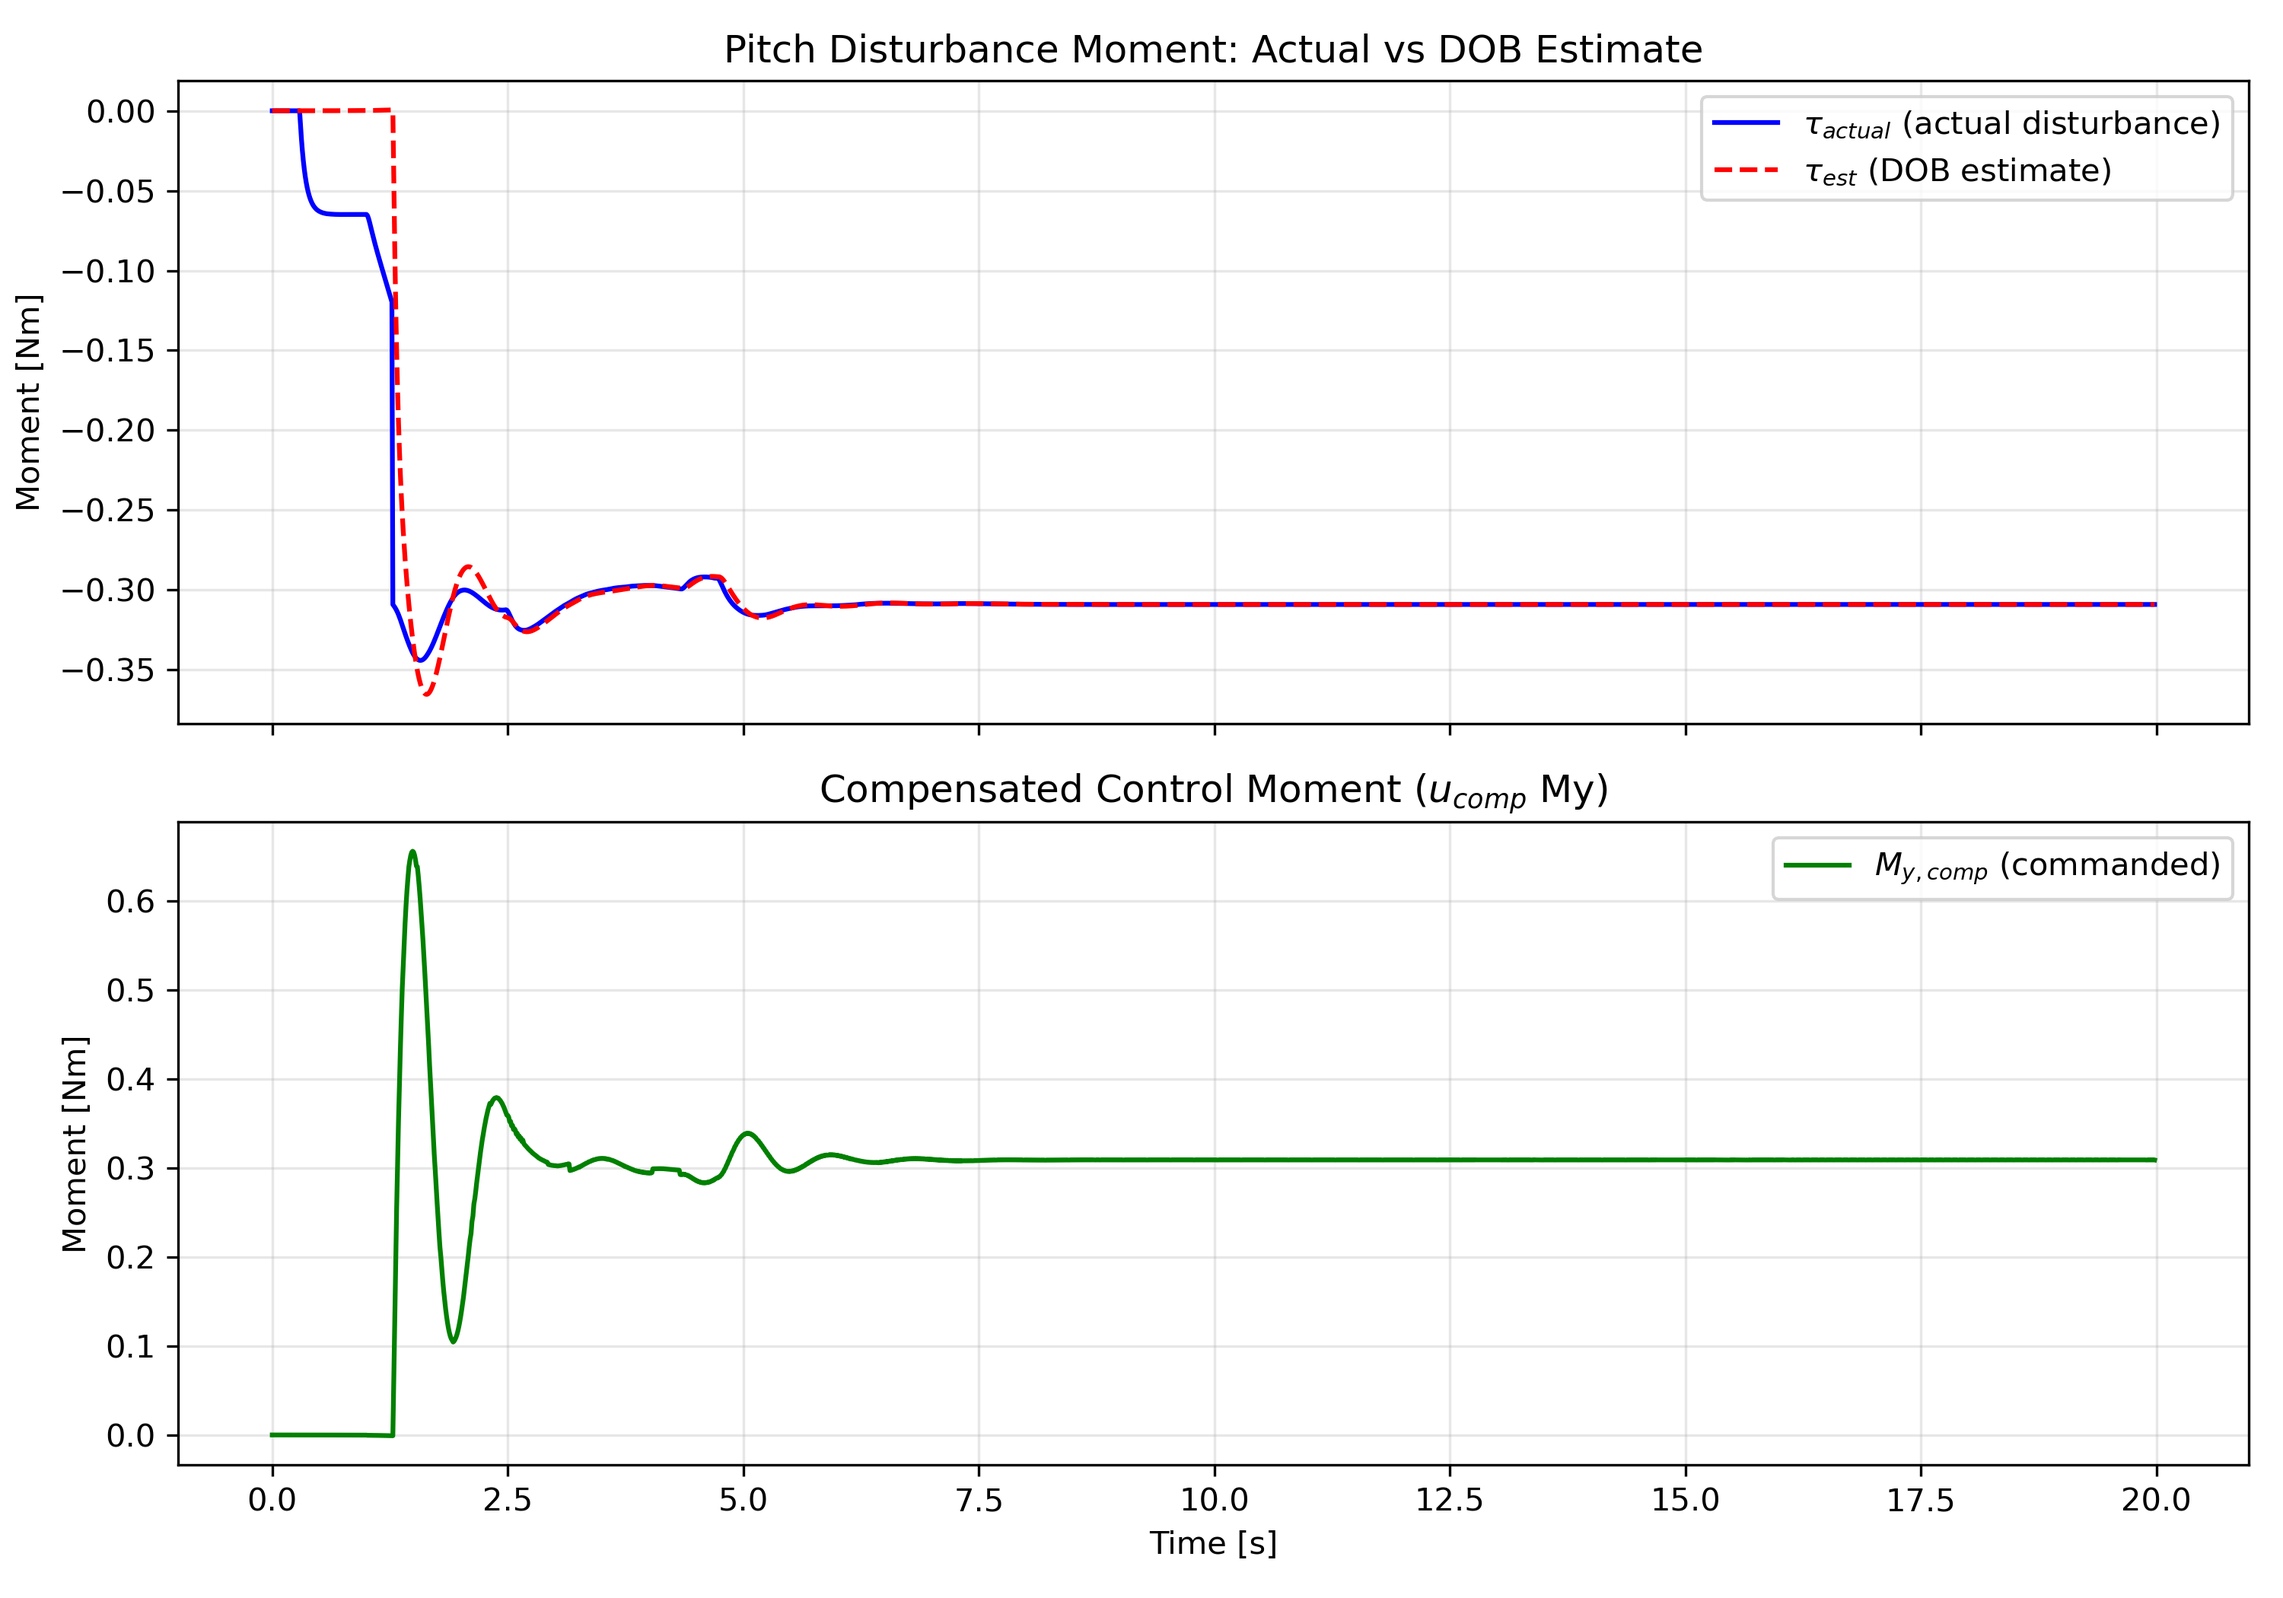
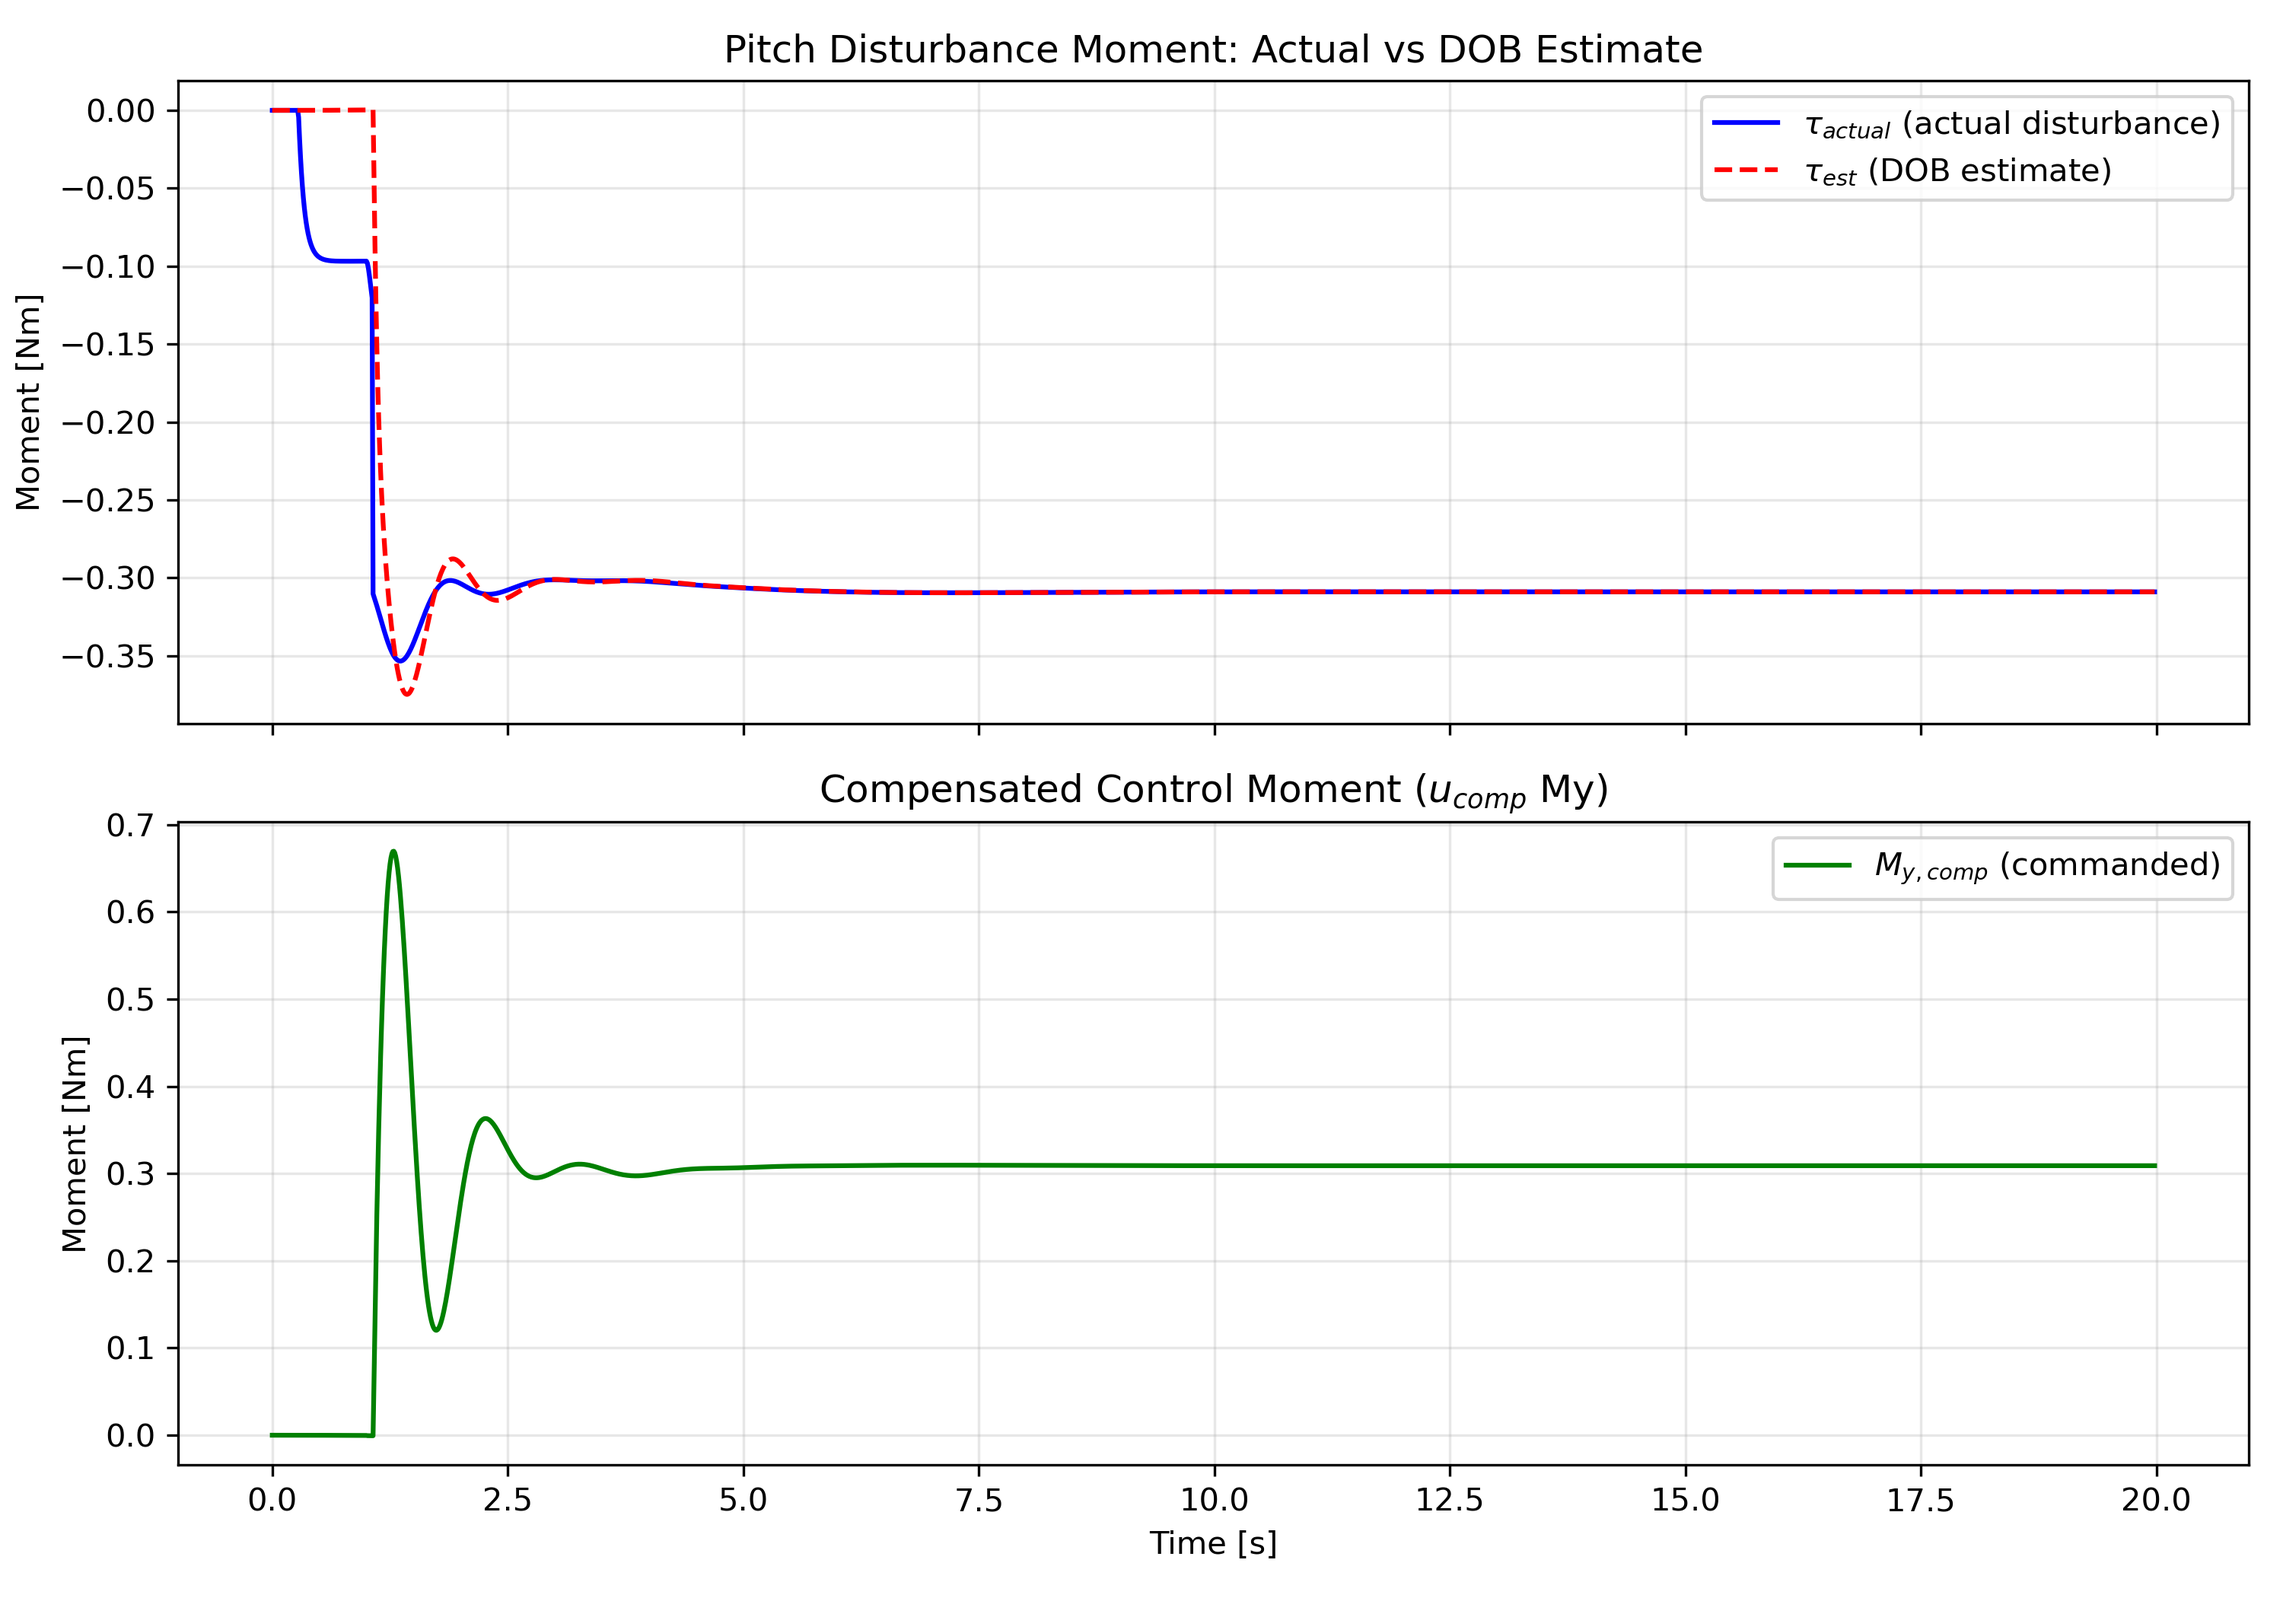
PD gain tunned for 3dof sim

diff --git a/main_control_3d.py b/main_control_3d.py
@@ -73,16 +73,20 @@ def load_parameters_3d(control_type, dob_type):
         params['nominal_rotor_params'] = yaml_loader.get_rotor_params(config_control)
         params['gain_params'] = yaml_loader.get_pd_gain_params(config_control)
 
-        # Default regulation for PD
+        # Regulation params
+        regulation = config_control.get('regulation', {})
         params['regulation_params'] = {
-            'setpoint_position': np.array([0.0, 1.0])
+            'setpoint_position': np.array(regulation.get('setpoint_position', [0.0, 1.0]))
         }
+
+        # Tracking params
+        tracking = config_control.get('tracking', {})
         params['tracking_params'] = {
-            'target_position': np.array([2.0, 1.0]),
-            'a_max': 12.0,
-            'a_min': 3.0,
-            'omega_xy_max': 3.0,
-            'time_scale': 5.0,
+            'target_position': np.array(tracking.get('target_position', [0.0, 1.0])),
+            'a_max': tracking.get('a_max', 12.0),
+            'a_min': tracking.get('a_min', 3.0),
+            'omega_xy_max': tracking.get('omega_xy_max', 3.0),
+            'time_scale': tracking.get('time_scale', 5.0),
         }
 
     # Load DOB parameters

diff --git a/sim_model/S550_3d_model.py b/sim_model/S550_3d_model.py
@@ -254,8 +254,6 @@ class S550_3D_Sim_Model:
             self.is_contact = False
         # Front contact condition
         else:
-            # Static friction assumption
-            f_fric = -fx
             cth = np.cos(theta)
             sth = np.sin(theta)
             M_contact = self.m * self.g *( (self.h_g + self.z_off) * sth
